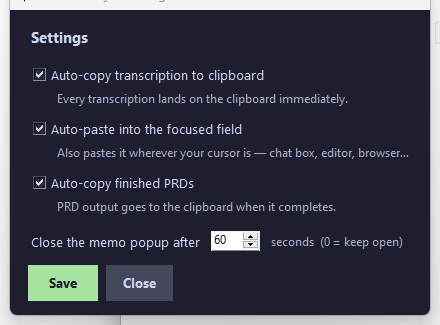
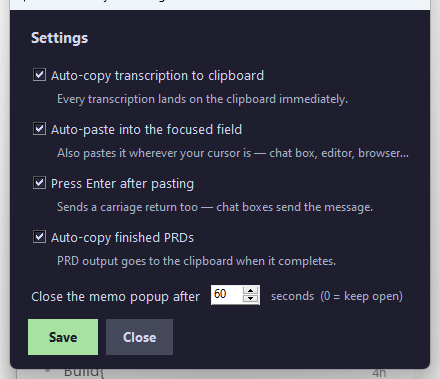
Optional Enter-after-paste (checkbox, default off) + docs/screenshot updates

diff --git a/voice_hotkey.py b/voice_hotkey.py
@@ -1663,6 +1663,9 @@ def _auto_paste_after_copy() -> None:
                 ctypes.windll.user32.SetForegroundWindow(hwnd)
                 time.sleep(0.05)
             keyboard.send("ctrl+v")
+            if CONFIG.get("auto_paste_enter", False):
+                time.sleep(0.15)
+                keyboard.send("enter")
         except Exception as e:
             log_error(f"Auto-paste failed: {e}")
 
@@ -2174,6 +2177,7 @@ def main() -> None:
         def _load_from_config() -> None:
             copy_var.set(bool(CONFIG.get("auto_copy_to_clipboard", False)))
             paste_var.set(bool(CONFIG.get("auto_paste_to_field", False)))
+            enter_var.set(bool(CONFIG.get("auto_paste_enter", False)))
             prd_var.set(bool(CONFIG.get("prd_auto_copy_to_clipboard", True)))
             try:
                 timeout_var.set(str(int(CONFIG.get("overlay_timeout", 60))))
@@ -2186,6 +2190,7 @@ def main() -> None:
                 CONFIG = load_config()
                 CONFIG["auto_copy_to_clipboard"] = bool(copy_var.get())
                 CONFIG["auto_paste_to_field"] = bool(paste_var.get())
+                CONFIG["auto_paste_enter"] = bool(enter_var.get())
                 CONFIG["prd_auto_copy_to_clipboard"] = bool(prd_var.get())
                 try:
                     CONFIG["overlay_timeout"] = int(timeout_var.get() or 0)
@@ -2224,6 +2229,7 @@ def main() -> None:
 
         copy_var = tk.BooleanVar()
         paste_var = tk.BooleanVar()
+        enter_var = tk.BooleanVar()
         prd_var = tk.BooleanVar()
 
         def _chk(var: tk.BooleanVar, text: str, sub: str) -> None:
@@ -2240,6 +2246,8 @@ def main() -> None:
              "Every transcription lands on the clipboard immediately.")
         _chk(paste_var, "Auto-paste into the focused field",
              "Also pastes it wherever your cursor is — chat box, editor, browser…")
+        _chk(enter_var, "Press Enter after pasting",
+             "Sends a carriage return too — chat boxes send the message.")
         _chk(prd_var, "Auto-copy finished PRDs",
              "PRD output goes to the clipboard when it completes.")
 

diff --git a/README.md b/README.md
@@ -70,13 +70,13 @@ Google Remote Desktop (see hotkey notes).
   toasts on the change, and pressing the hotkey while it's down shows a
   dismissible "check your transcription configuration" panel.
 - **Settings submenu** — one place for configuration: *Options…*
-  (checkboxes for auto-copy, **auto-paste into the focused field**, PRD
-  auto-copy, and the memo popup's auto-close timeout — default 60s, 0 =
-  keep open), *Change Hotkey…*, *STT/LLM Endpoint & Model…*, *Edit PRD
-  Prompt…*, and *Reload Config*. The memo popup can safely close itself:
-  the text is already on the clipboard and saved to
-  `state/last_transcription.txt`; PRD generating/done states never
-  auto-close.
+  (checkboxes for auto-copy, **auto-paste into the focused field** with an
+  optional **Enter-after-paste** for chat boxes, PRD auto-copy, and the
+  memo popup's auto-close timeout — default 60s, 0 = keep open),
+  *Change Hotkey…*, *STT/LLM Endpoint & Model…*, *Edit PRD Prompt…*, and
+  *Reload Config*. The memo popup can safely close itself: the text is
+  already on the clipboard and saved to `state/last_transcription.txt`;
+  PRD generating/done states never auto-close.
 - **State split**: secrets in `secrets/`, runtime state in `state/`,
   source at the repo root.
 
